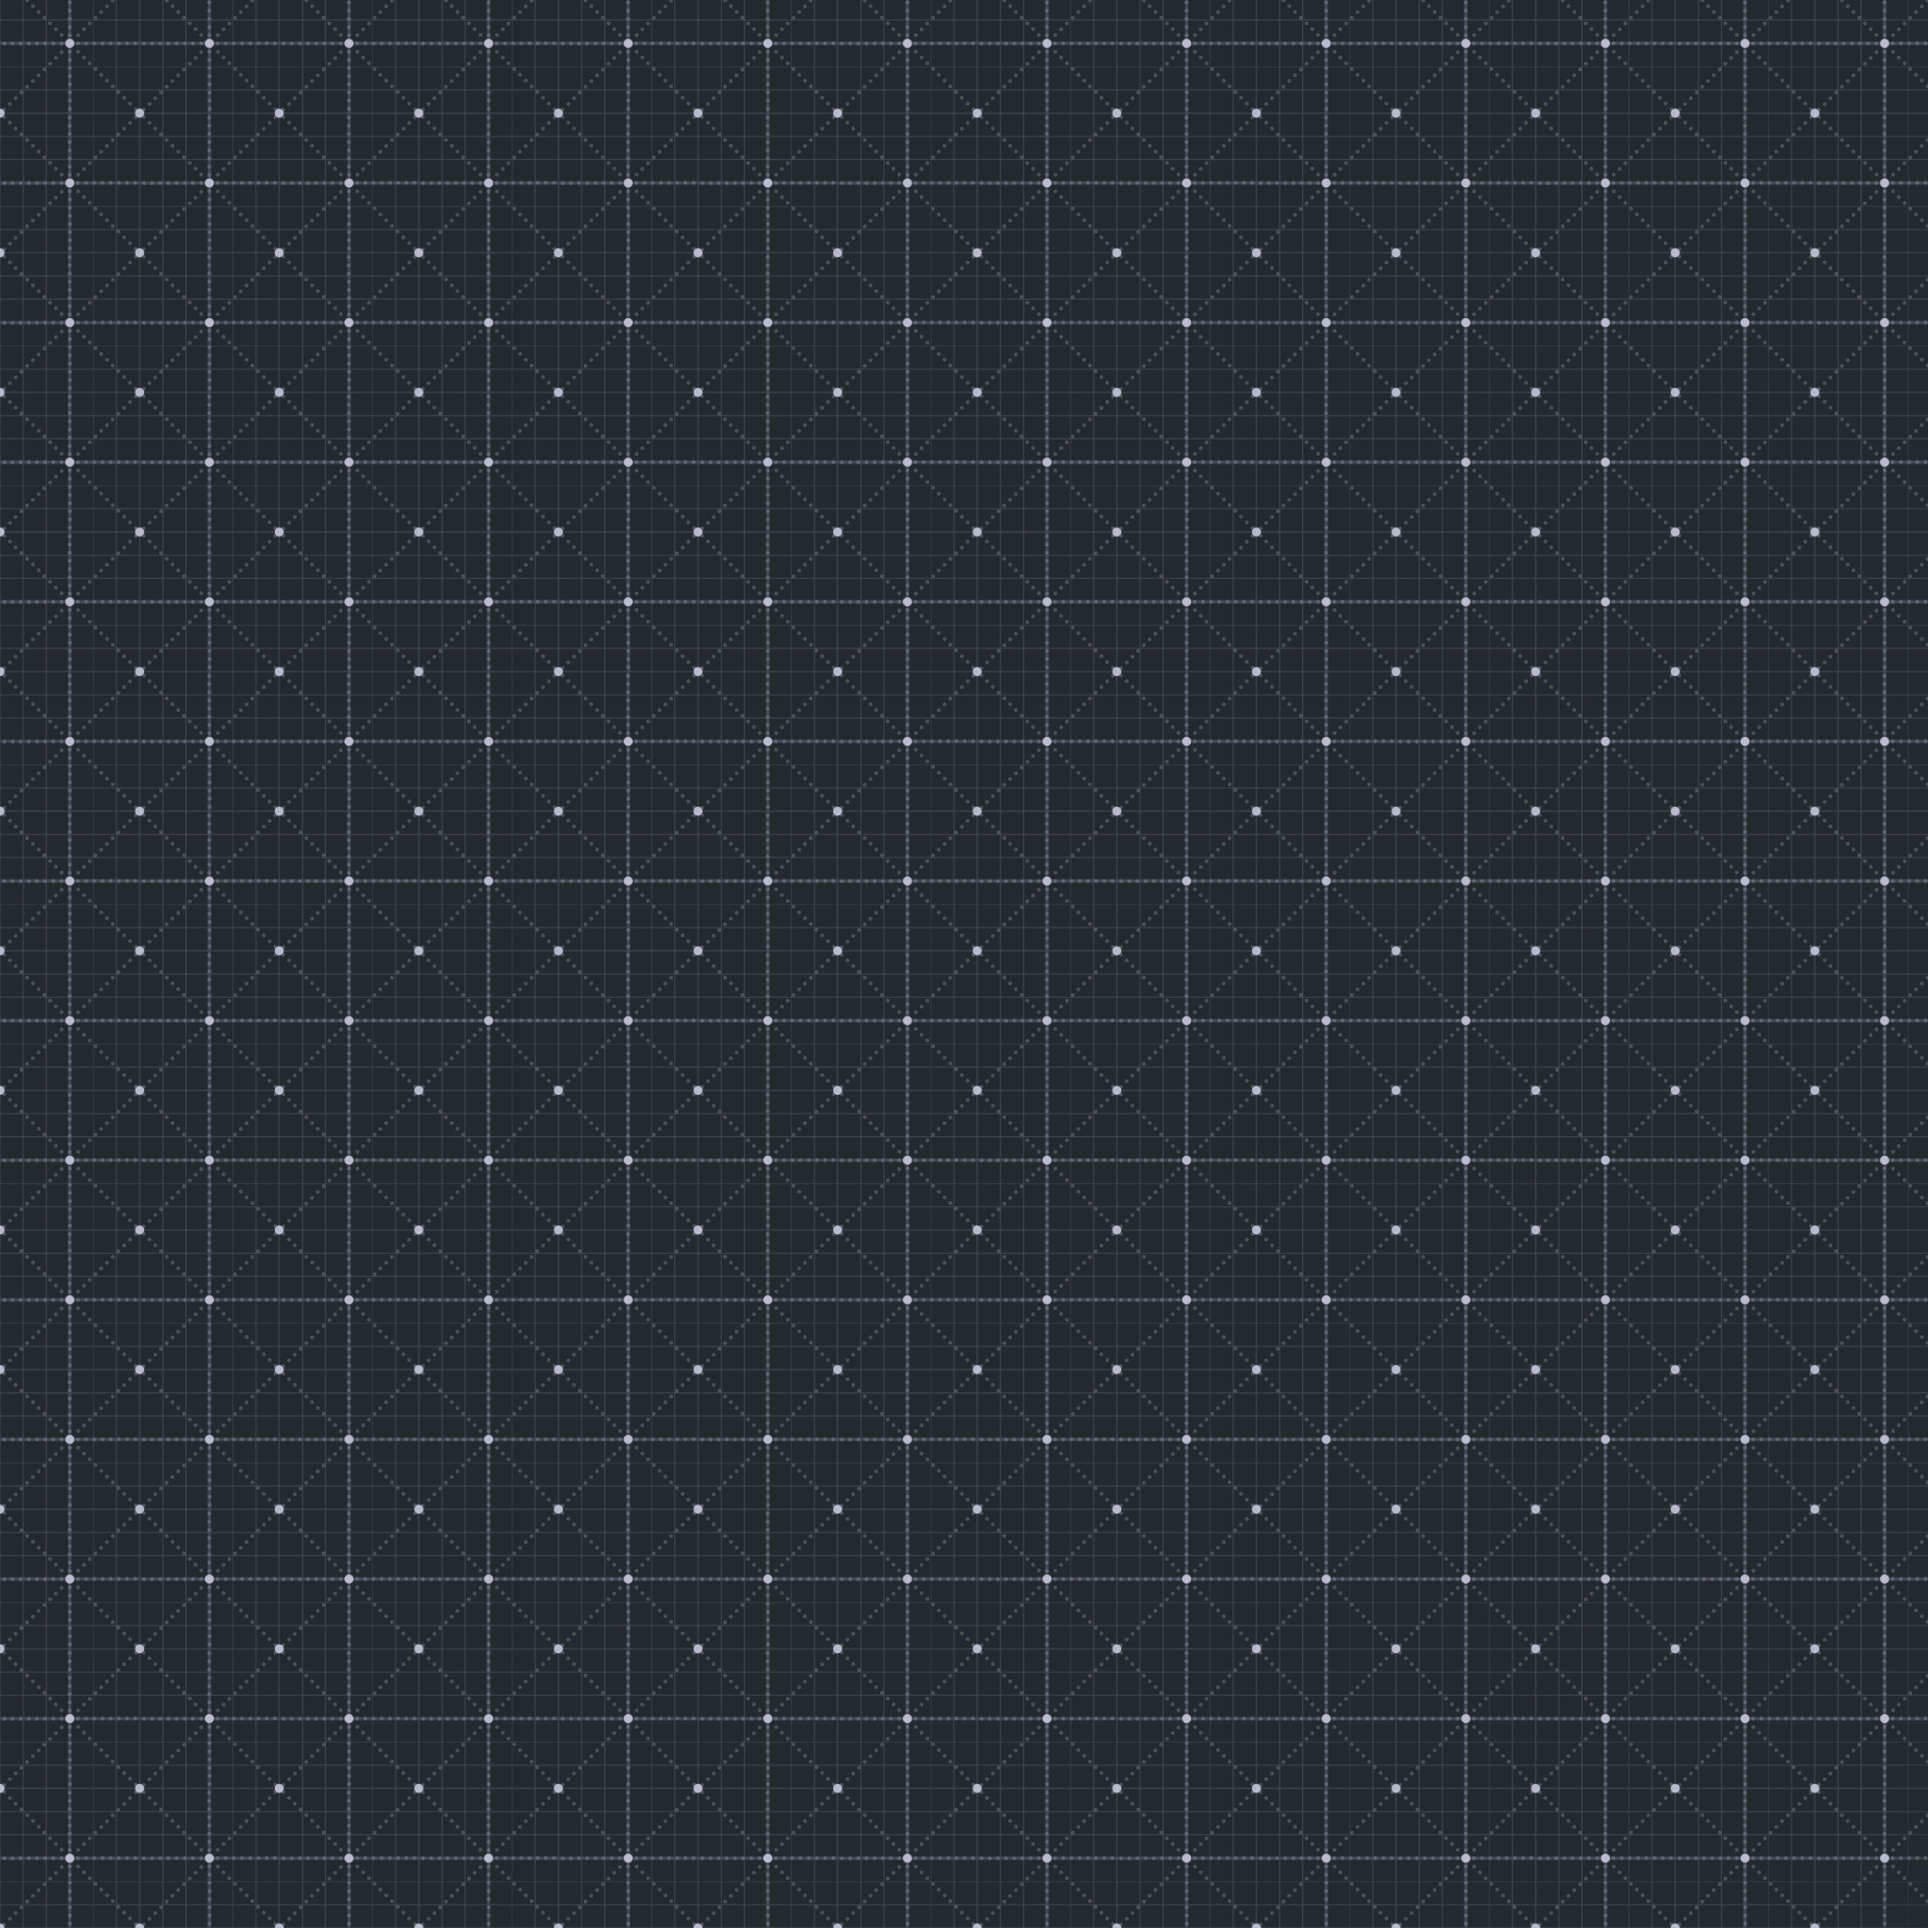
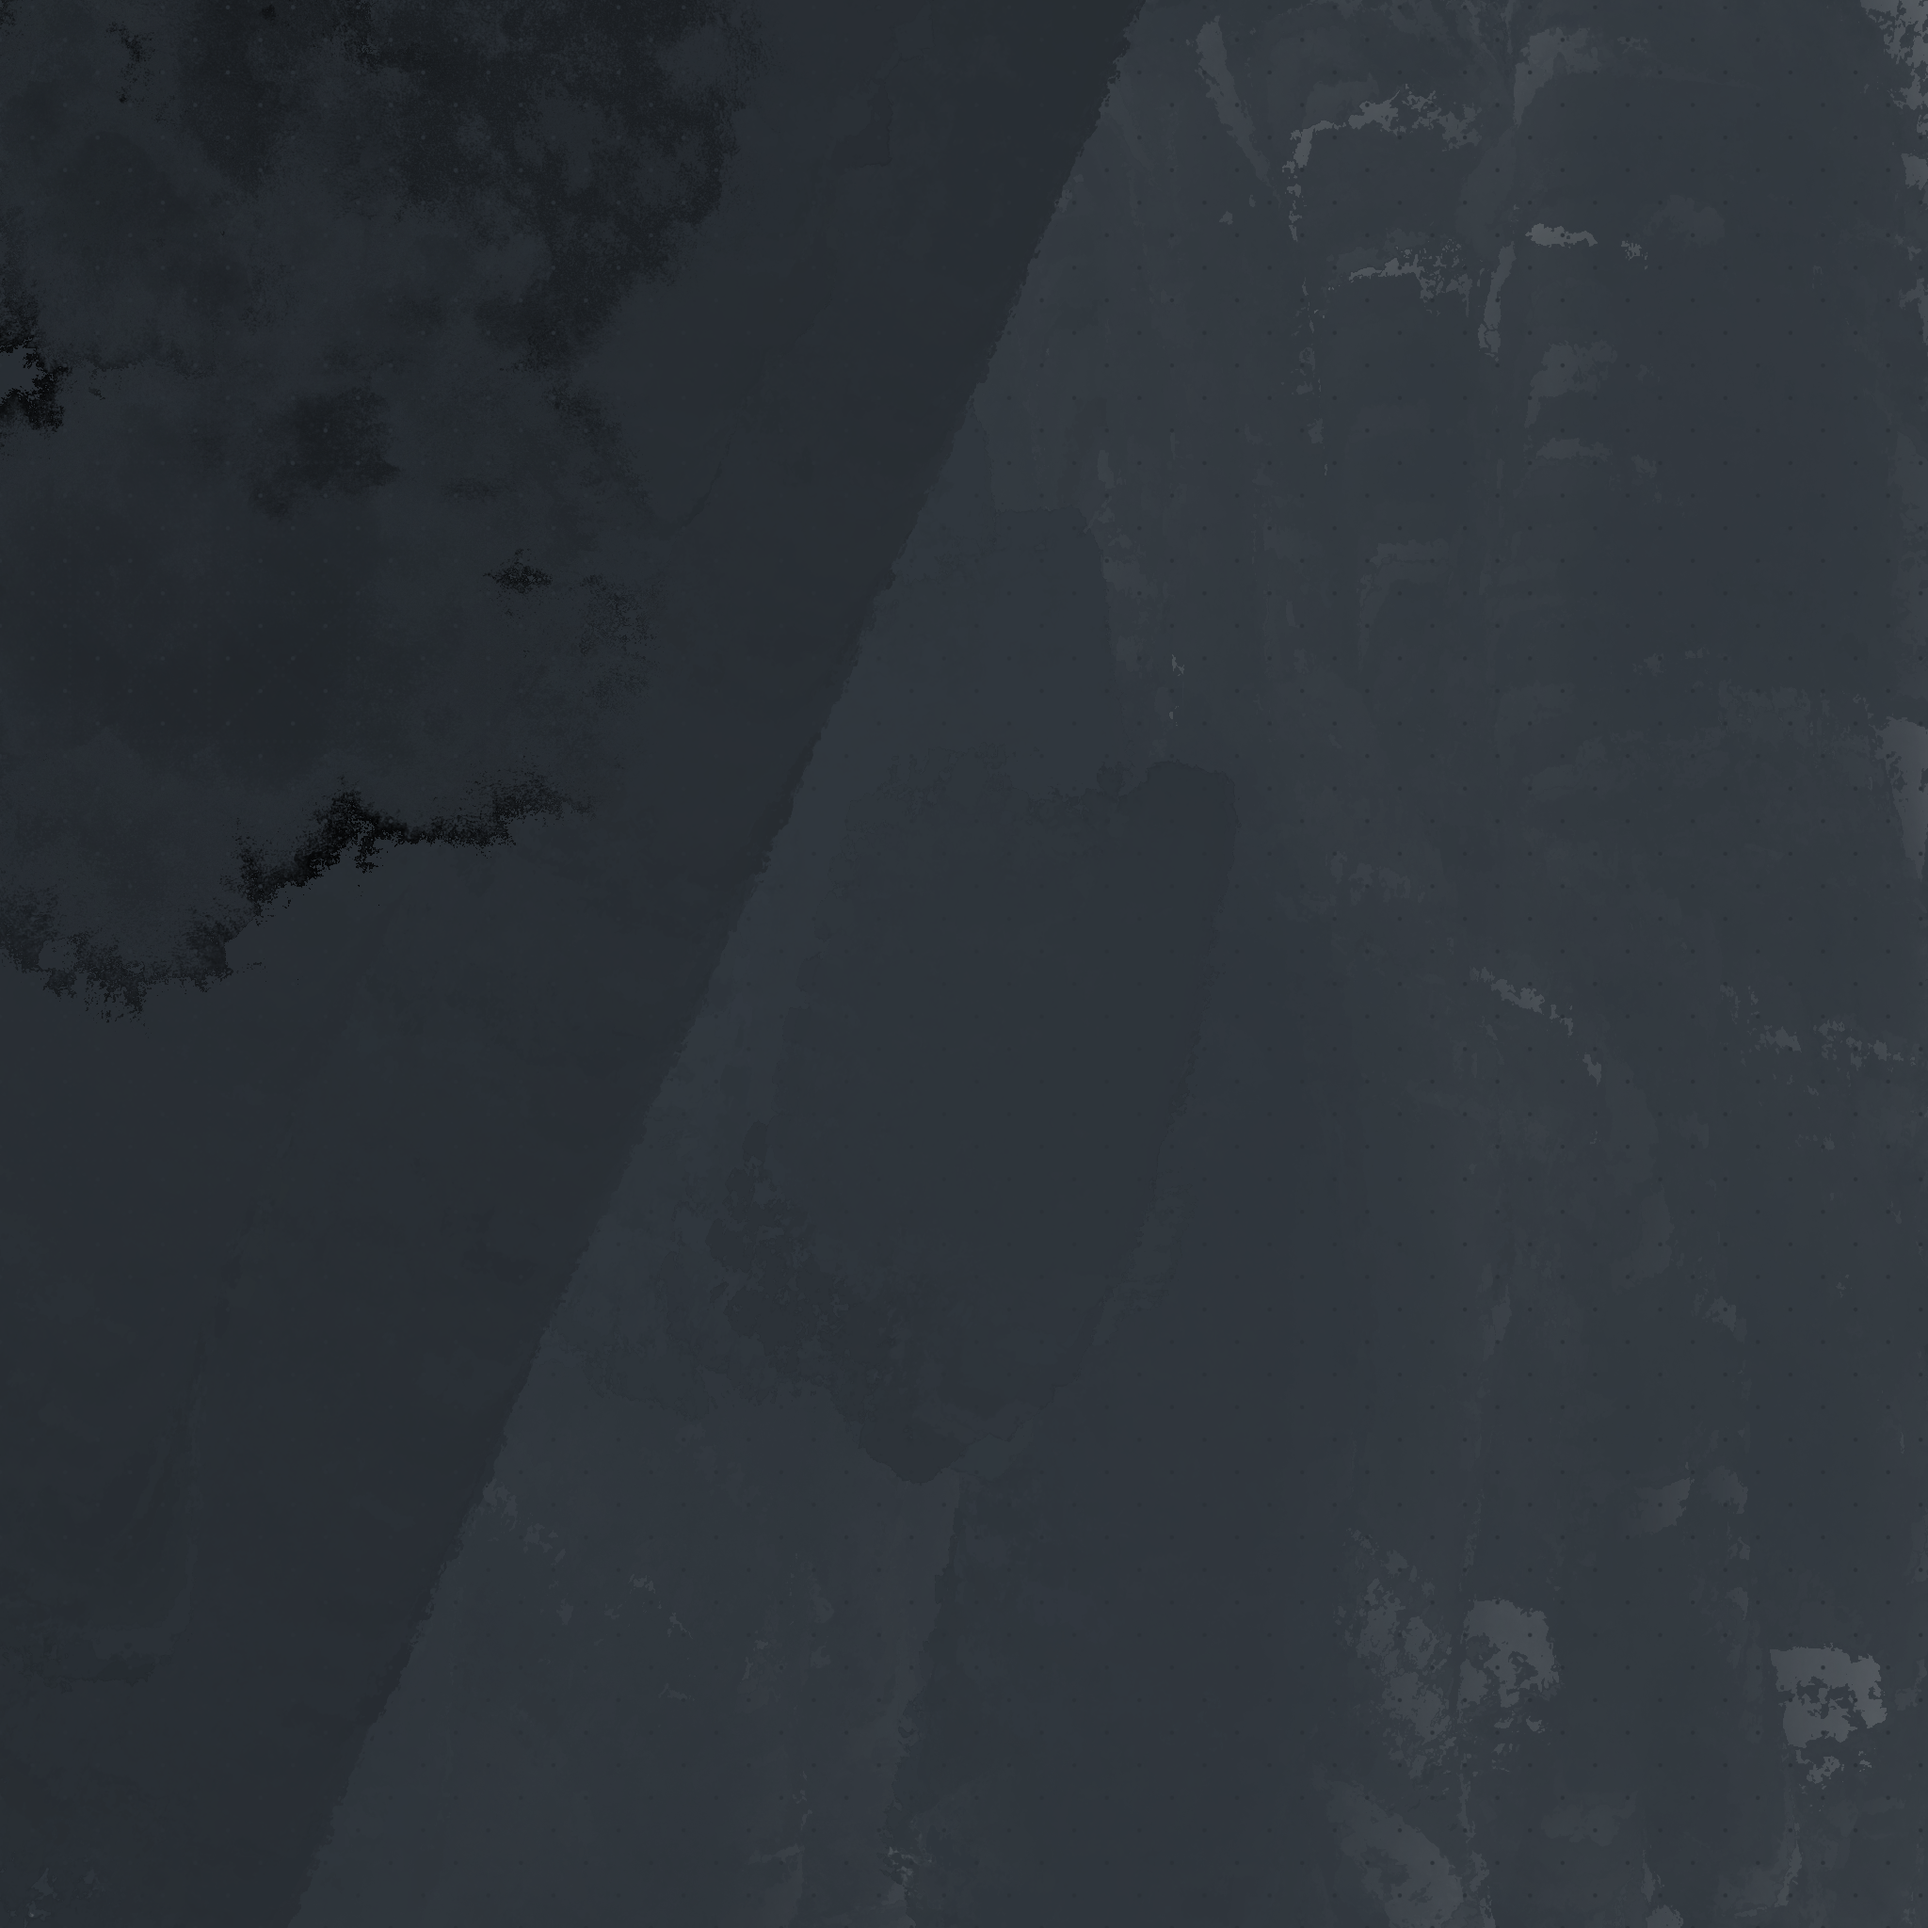
Updated bottom bar placeholder in about_me.html and index.html; changed background image in styles.css and adjusted infoBox width

diff --git a/Portfolio/about_me.html b/Portfolio/about_me.html
@@ -41,18 +41,11 @@
                 earum voluptatum debitis?</p>
         </div>
 
-        <div class="infoBox">
-            <p>Lorem ipsum dolor sit amet consectetur, adipisicing elit. Repellat voluptatibus neque aspernatur?
-                Consectetur suscipit
-                placeat saepe vero sed vitae in commodi necessitatibus illum voluptates, delectus doloribus laboriosam,
-                earum voluptatum debitis?</p>
-        </div>
-        
         <div class="bottomBar">
             <img src="bottom bar.png" alt="">
         </div>
         <footer>
-            PlaceHolder
+       &#9675; PlaceHolder &#9679;
         </footer>
 </body>
 

diff --git a/Portfolio/styles.css b/Portfolio/styles.css
@@ -1,7 +1,7 @@
 @charset "utf-8";
 
 html{
-    background-image: url(background2.png);
+    background-image: url(background.png);
 }
 
 /* Body Styles */
@@ -46,7 +46,7 @@ div.infoBox {
     display: inline-block;
     vertical-align: top;
     height: 200px;
-    width: 30%;
+    width: 46%;
     padding: 35px 15px;
     margin: 10px;
     margin-top: 25px;

diff --git a/Portfolio/index.html b/Portfolio/index.html
@@ -35,7 +35,7 @@
     </div>
 
     <footer>
-        PlaceHolder
+       &#9675; PlaceHolder &#9679;
     </footer>
 </body>
 
